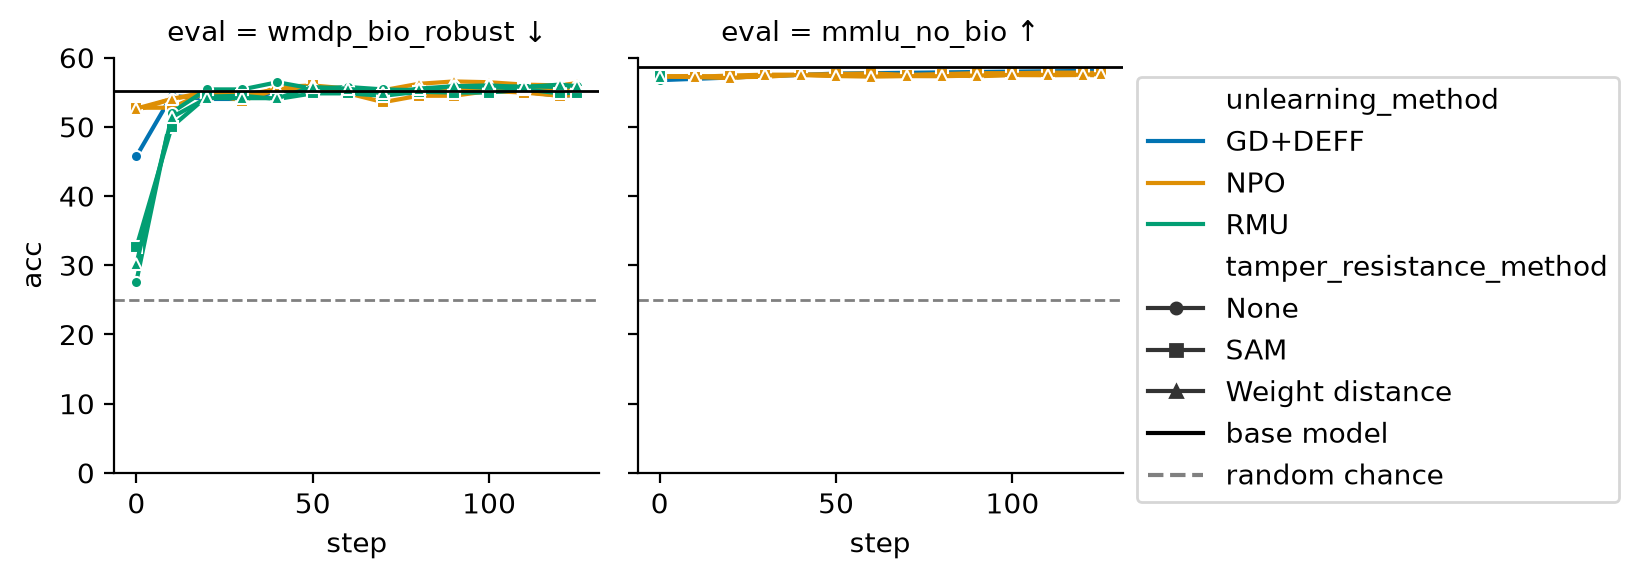
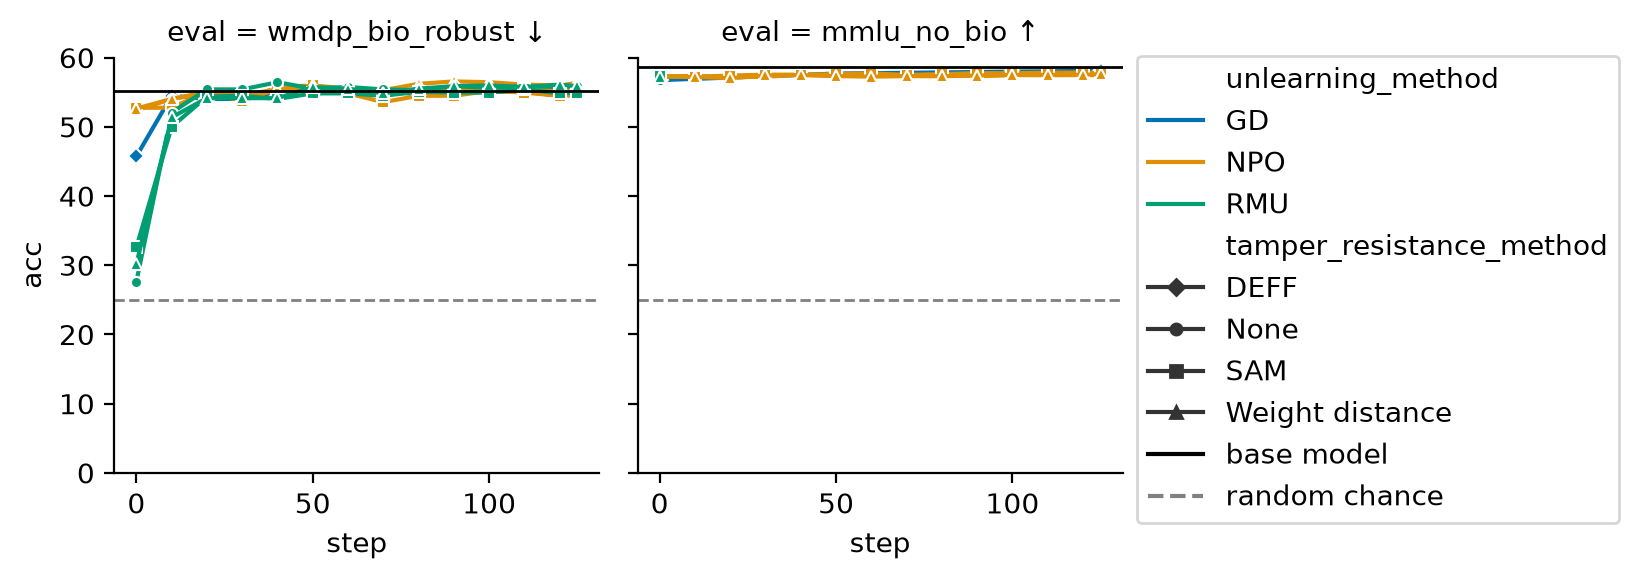
fix: classify deff as tamper resistance

Changed region(s): [[0.6875, 0.0933, 1.0, 0.8705], [0.6875, 0.9016, 1.0, 0.9326]]

diff --git a/examples/tamper-resistance/scripts/analysis/plot_trajectory.py b/examples/tamper-resistance/scripts/analysis/plot_trajectory.py
@@ -14,8 +14,8 @@ os.makedirs(rootdir, exist_ok=True)
 configs = [
     {
         "path": "artifacts/tamia/evals/z7b-wmdp-bio--unlearn-fft-gd-deff--relearn-fft-long",
-        "unlearning_method": "GD+DEFF",
-        "tamper_resistance_method": "None",
+        "unlearning_method": "GD",
+        "tamper_resistance_method": "DEFF",
     },
     {
         "path": "artifacts/tamia/evals/z7b-wmdp-bio--unlearn-fft-npo--relearn-fft-long",
@@ -120,7 +120,7 @@ palette = dict(
         sns.color_palette("colorblind", n_colors=len(unlearning_methods)),
     )
 )
-markers = {"None": "o", "SAM": "s", "Weight distance": "^"}
+markers = {"None": "o", "DEFF": "D", "SAM": "s", "Weight distance": "^"}
 g = sns.relplot(
     data=df,
     x="step",
